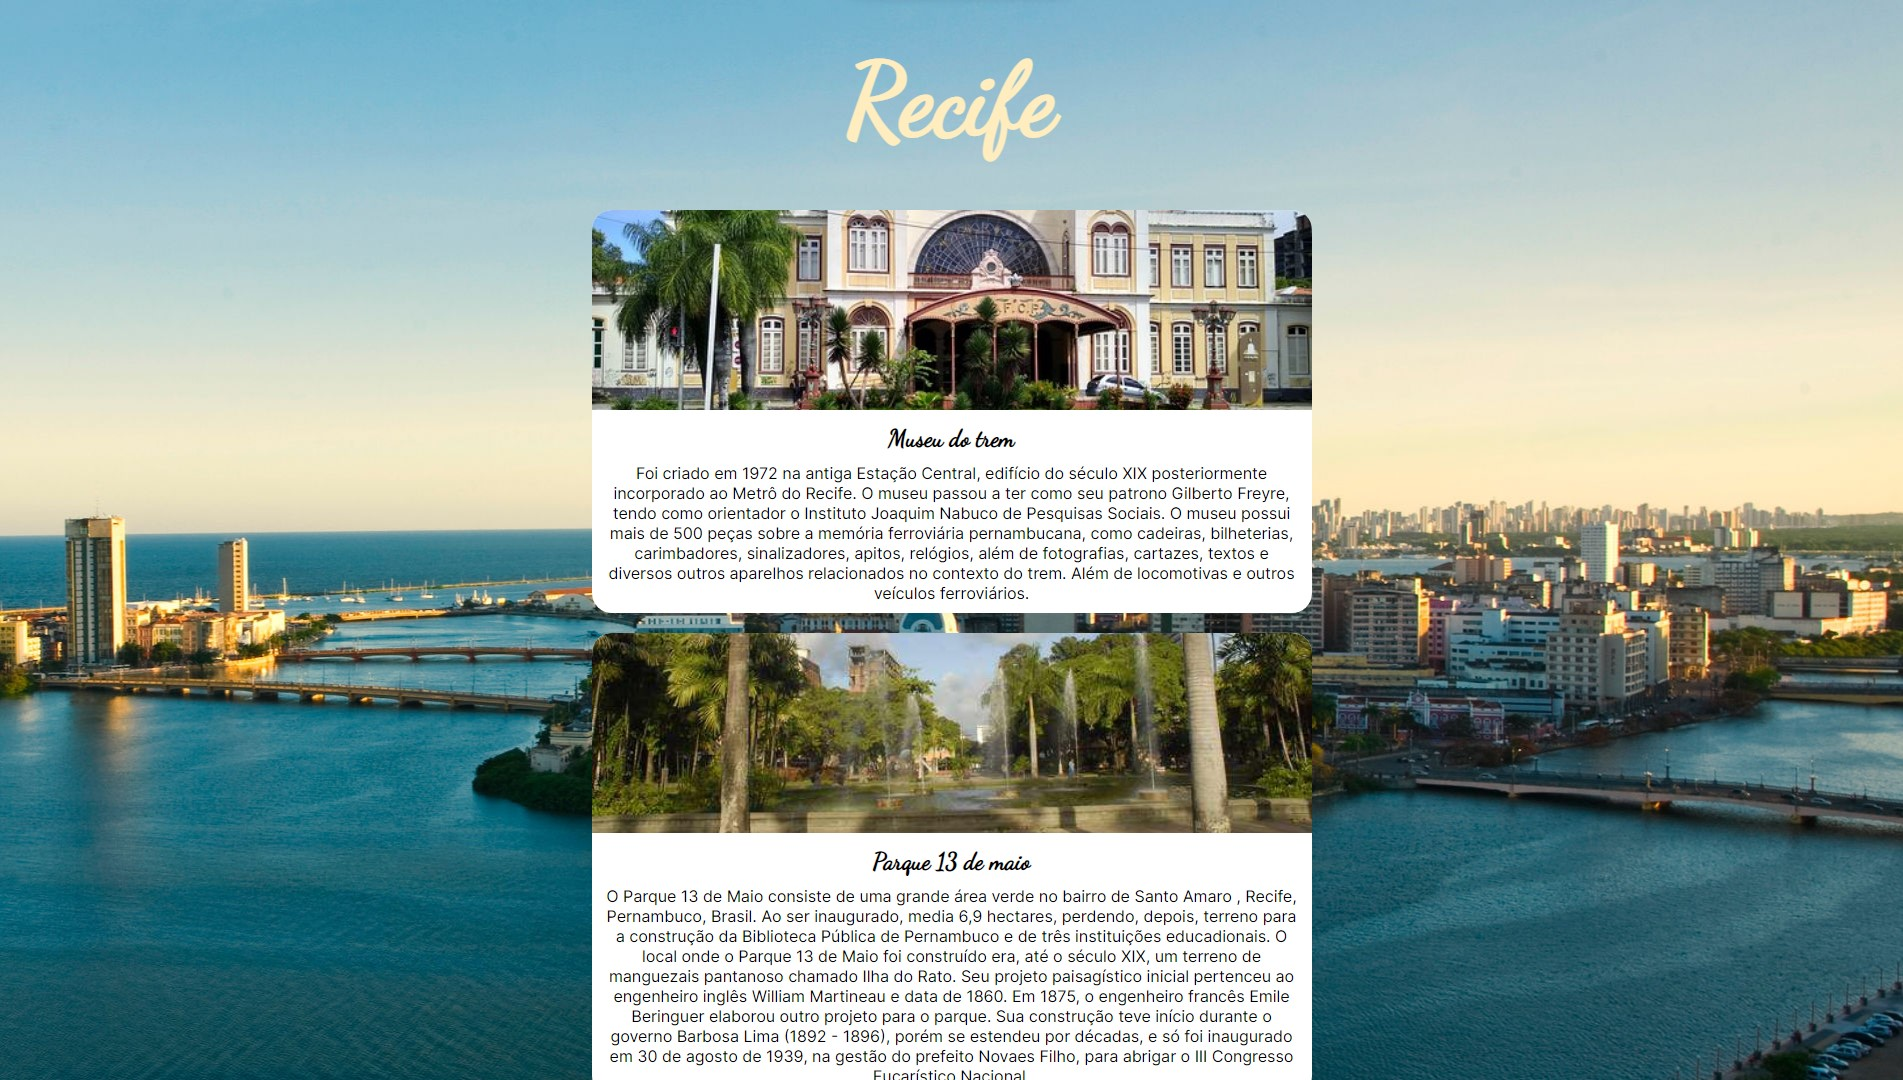
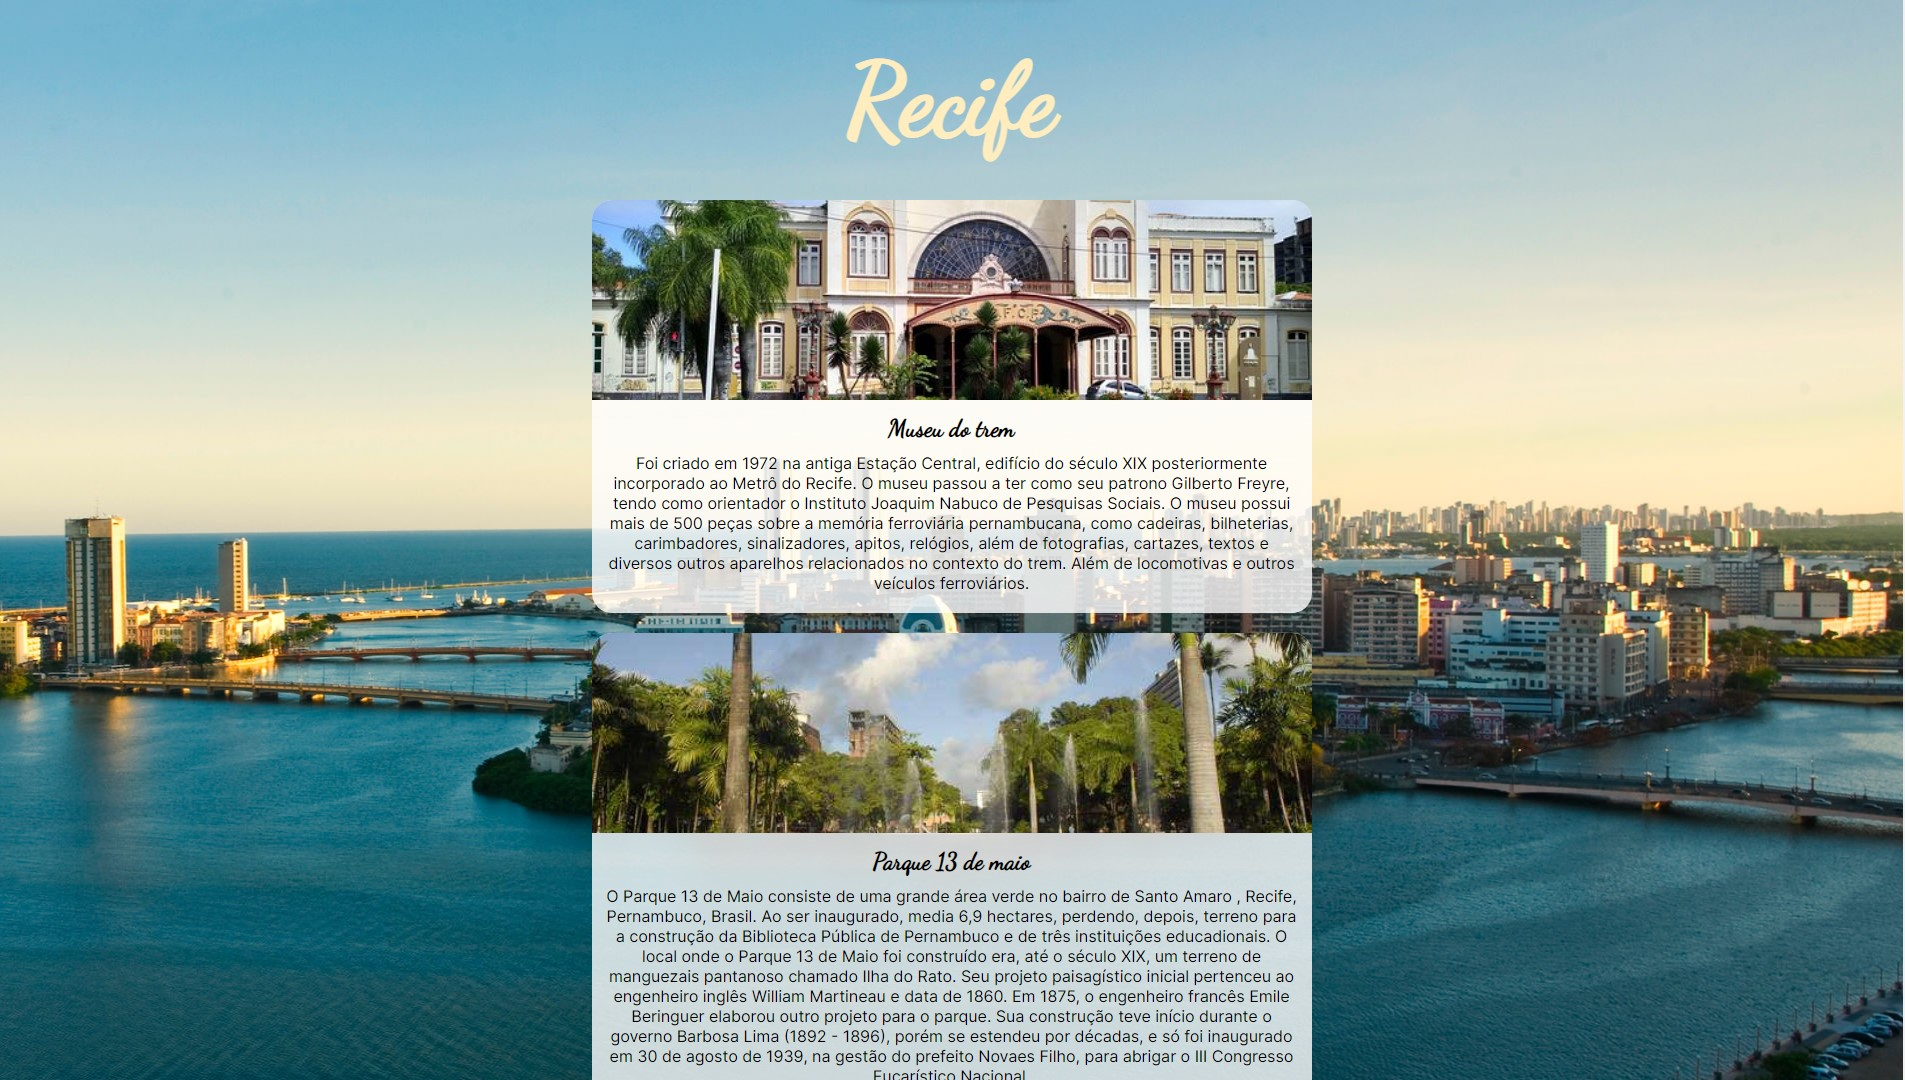
transparencia section

diff --git a/style.css b/style.css
@@ -36,7 +36,7 @@ body {
 section {
     width: 100%;
     max-width: 720px;
-    background-color: white;
+    background-color: rgba(255, 255, 255, 0.801);
     padding-bottom: 10px;
     margin-bottom: 20px;
     border-radius: 20px;    
